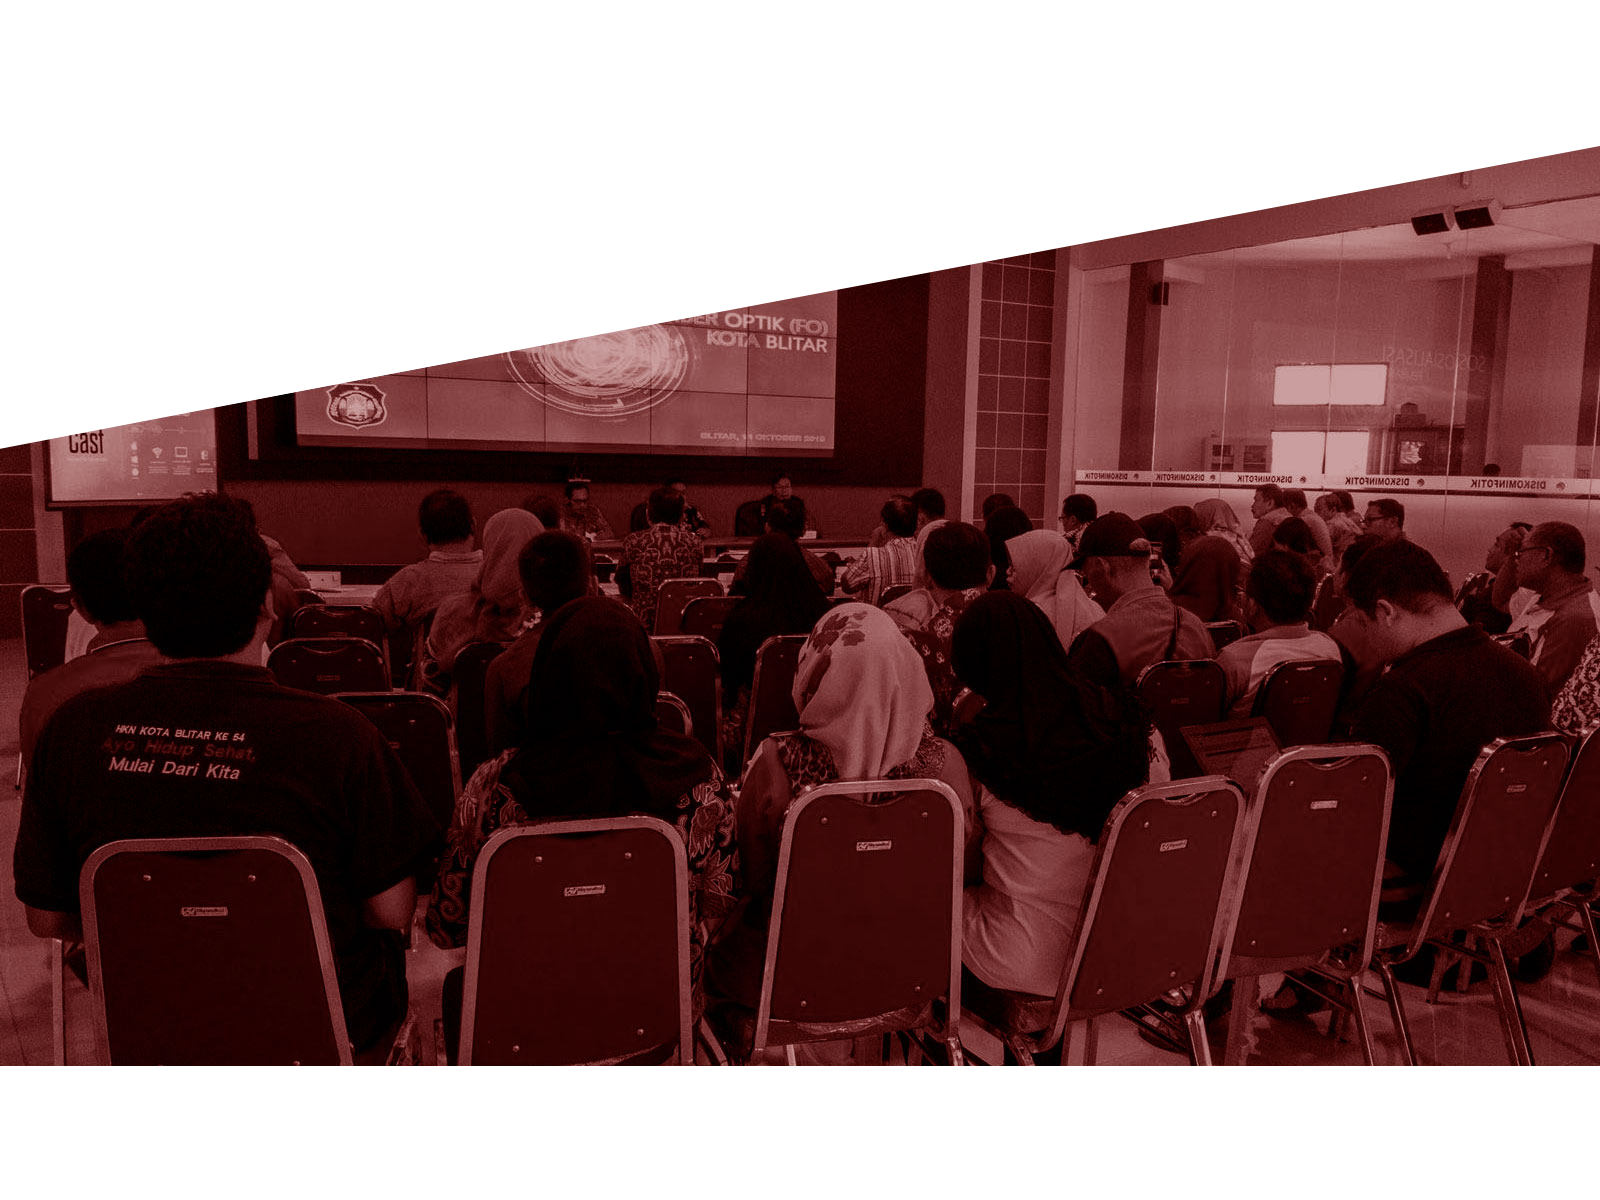
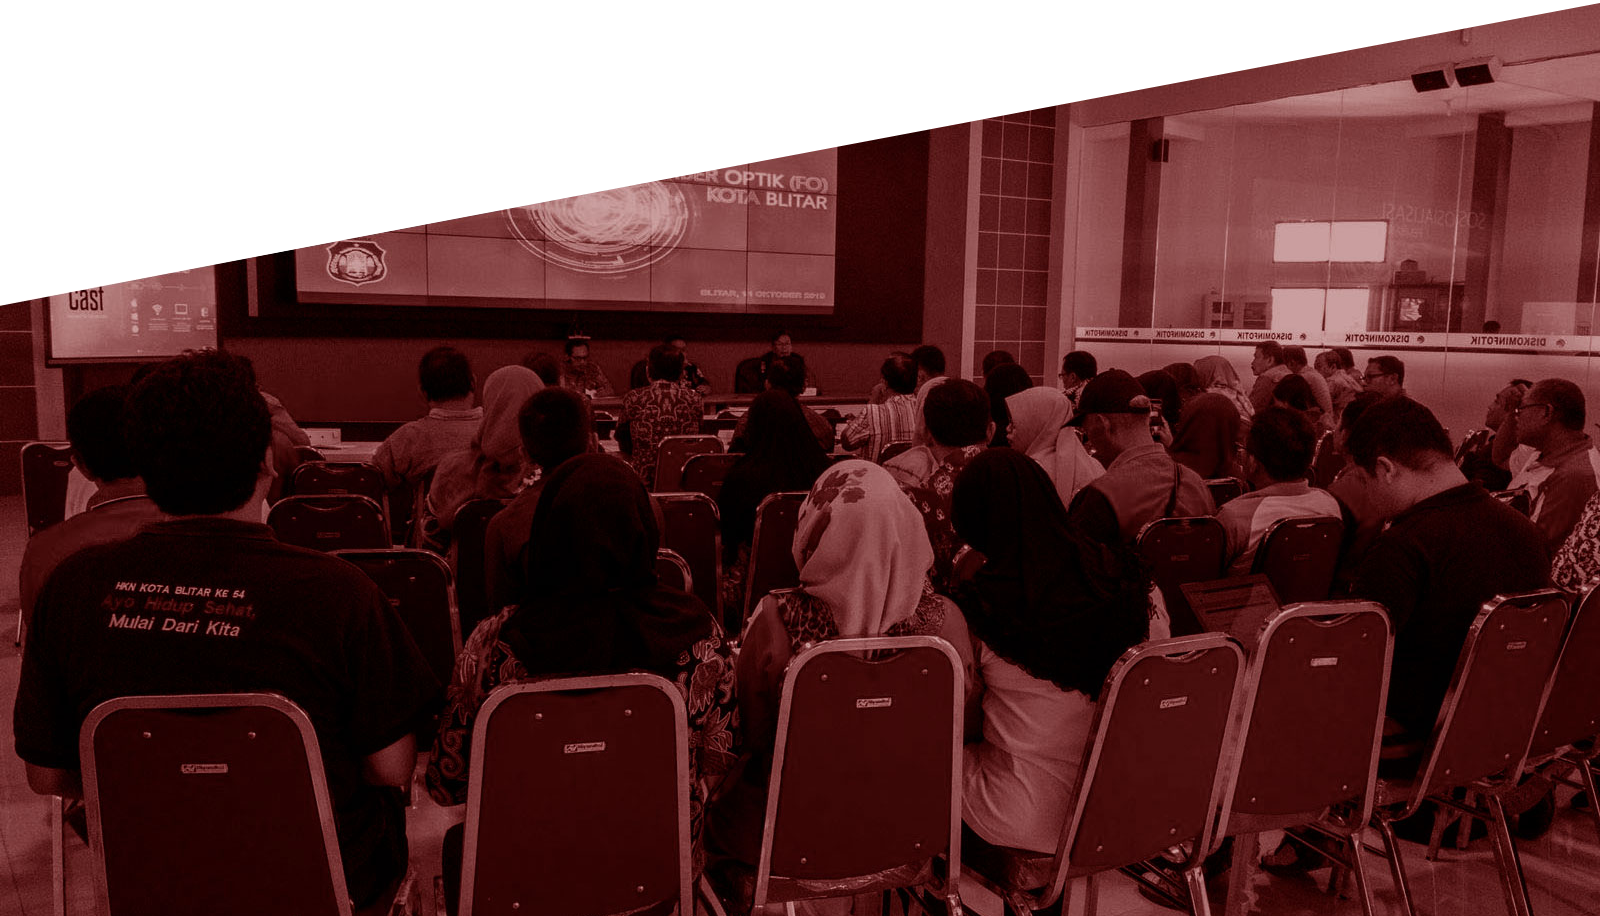
desain top and bottom

diff --git a/public/css/styles.css b/public/css/styles.css
@@ -6,3 +6,21 @@
     border-width: 2px;
     border-color: #2c2c2c;
 }
+
+.intro {
+	background-image: url('../assets/home.png');
+    width: 100%;
+    height: 30vw;
+	background-repeat: no-repeat;
+	background-size: cover;
+	justify-content: center;
+}
+
+.bottom-content {
+	background-image: url('../assets/home2.png');
+    width: 100%;
+    height: 25vw;
+	background-repeat: no-repeat;
+    background-size: cover;
+    position: relative;
+}
